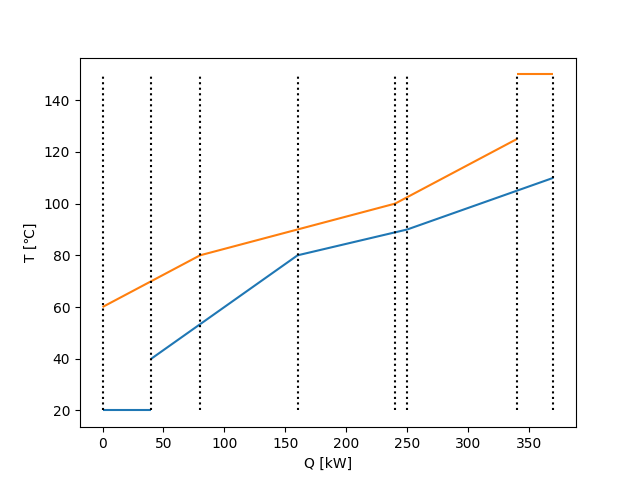
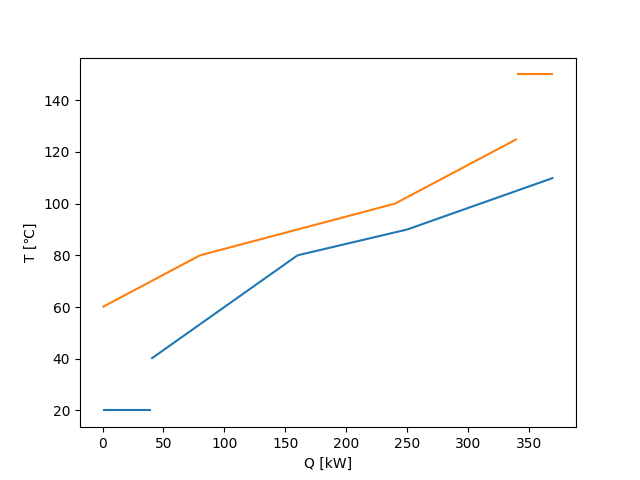
Update example

diff --git a/examples/simple_with_external/main.py b/examples/simple_with_external/main.py
@@ -3,7 +3,7 @@ import pandas as pd
 from matplotlib.collections import LineCollection
 
 from pyheatintegration import (PinchAnalyzer, Stream, StreamState, StreamType,
-                               extract_x, y_range)
+                               convert_to_excel_data, extract_x, y_range)
 
 
 def main():
@@ -62,6 +62,17 @@ def main():
 
     # TQ線図
     hot_lines, cold_lines = analyzer.create_tq()
+
+    # 与熱複合線と受熱複合線
+    fig, ax = plt.subplots(1, 1)
+    ax.set_xlabel("Q [kW]")
+    ax.set_ylabel("T [℃]")
+    ax.add_collection(LineCollection(hot_lines, colors="#ff7f0e"))
+    ax.add_collection(LineCollection(cold_lines, colors="#1f77b4"))
+    ax.autoscale()
+    fig.savefig("./tq_diagram.png")
+
+    # 熱量の区間ごとのたて線も表示
     ymin, ymax = y_range(hot_lines + cold_lines)
     heats = extract_x(hot_lines + cold_lines)
     fig, ax = plt.subplots(1, 1)
@@ -71,10 +82,21 @@ def main():
     ax.add_collection(LineCollection(cold_lines, colors="#1f77b4"))
     ax.vlines(heats, ymin=ymin, ymax=ymax, linestyles=':', colors='k')
     ax.autoscale()
-    fig.savefig("./tq_diagram.png")
+    fig.savefig("./tq_diagram_with_vlines.png")
 
     # 分割したTQ線図
     hot_lines_separated, cold_lines_separated = analyzer.create_tq_separated()
+
+    # 与熱複合線と受熱複合線
+    fig, ax = plt.subplots(1, 1)
+    ax.set_xlabel("Q [kW]")
+    ax.set_ylabel("T [℃]")
+    ax.add_collection(LineCollection(hot_lines_separated, colors="#ff7f0e"))
+    ax.add_collection(LineCollection(cold_lines_separated, colors="#1f77b4"))
+    ax.autoscale()
+    fig.savefig("./tq_diagram_separeted.png")
+
+    # 熱量の区間ごとのたて線も表示
     ymin, ymax = y_range(hot_lines_separated + cold_lines_separated)
     heats_separated = extract_x(hot_lines_separated + cold_lines_separated)
     fig, ax = plt.subplots(1, 1)
@@ -83,12 +105,22 @@ def main():
     ax.add_collection(LineCollection(hot_lines_separated, colors="#ff7f0e"))
     ax.add_collection(LineCollection(cold_lines_separated, colors="#1f77b4"))
     ax.vlines(heats_separated, ymin=ymin, ymax=ymax, linestyles=':', colors='gray')
-    ax.vlines(heats, ymin=ymin, ymax=ymax, linestyles=':', colors='k')
     ax.autoscale()
-    fig.savefig("./tq_diagram_separeted.png")
+    fig.savefig("./tq_diagram_separeted_with_vlines.png")
 
     # 最小接近温度差を満たす分割したTQ線図
     hot_lines_splitted, cold_lines_splitted = analyzer.create_tq_splitted()
+
+    # 与熱複合線と受熱複合線
+    fig, ax = plt.subplots(1, 1)
+    ax.set_xlabel("Q [kW]")
+    ax.set_ylabel("T [℃]")
+    ax.add_collection(LineCollection(hot_lines_splitted, colors="#ff7f0e"))
+    ax.add_collection(LineCollection(cold_lines_splitted, colors="#1f77b4"))
+    ax.autoscale()
+    fig.savefig("./tq_diagram_splitted.png")
+
+    # 熱量の区間ごとのたて線も表示
     ymin, ymax = y_range(hot_lines_splitted + cold_lines_splitted)
     heats_splitted = extract_x(hot_lines_separated + cold_lines_separated)
     fig, ax = plt.subplots(1, 1)
@@ -97,12 +129,22 @@ def main():
     ax.add_collection(LineCollection(hot_lines_splitted, colors="#ff7f0e"))
     ax.add_collection(LineCollection(cold_lines_splitted, colors="#1f77b4"))
     ax.vlines(heats_splitted, ymin=ymin, ymax=ymax, linestyles=':', colors='gray')
-    ax.vlines(heats, ymin=ymin, ymax=ymax, linestyles=':', colors='k')
     ax.autoscale()
-    fig.savefig("./tq_diagram_splitted.png")
+    fig.savefig("./tq_diagram_splitted_with_vlines.png")
 
     # 熱交換器を結合したTQ線図
     hot_lines_merged, cold_lines_merged = analyzer.create_tq_merged()
+
+    # 与熱複合線と受熱複合線
+    fig, ax = plt.subplots(1, 1)
+    ax.set_xlabel("Q [kW]")
+    ax.set_ylabel("T [℃]")
+    ax.add_collection(LineCollection(hot_lines_merged, colors="#ff7f0e"))
+    ax.add_collection(LineCollection(cold_lines_merged, colors="#1f77b4"))
+    ax.autoscale()
+    fig.savefig("./tq_diagram_merged.png")
+
+    # 熱量の区間ごとのたて線も表示
     ymin, ymax = y_range(hot_lines_merged + cold_lines_merged)
     heats_merged = extract_x(hot_lines_merged + cold_lines_merged)
     fig, ax = plt.subplots(1, 1)
@@ -112,7 +154,16 @@ def main():
     ax.add_collection(LineCollection(cold_lines_merged, colors="#1f77b4"))
     ax.vlines(heats_merged, ymin=ymin, ymax=ymax, linestyles=':', colors='gray')
     ax.autoscale()
-    fig.savefig("./tq_diagram_merged.png")
+    fig.savefig("./tq_diagram_merged_with_vlines.png")
+
+    # TQ線図(Excel風)
+    hot_lines, cold_lines = analyzer.create_tq()
+    fig, ax = plt.subplots(1, 1)
+    ax.set_xlabel("Q [kW]")
+    ax.set_ylabel("T [℃]")
+    ax.plot(*convert_to_excel_data(hot_lines), color="#ff7f0e")
+    ax.plot(*convert_to_excel_data(cold_lines), color="#1f77b4")
+    fig.savefig("./tq_diagram_excel.png")
 
 
 if __name__ == '__main__':
